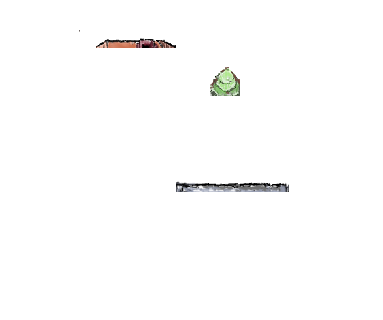
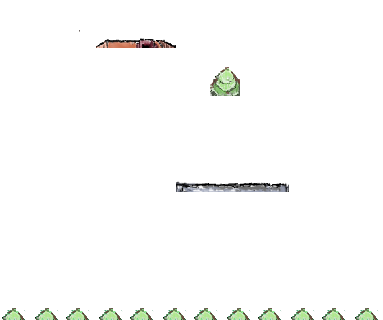
Fixat bakgrunden så att det inte syns några svarta hål som inte borde finnas(tillfälligt finns det två olika sorters granar).

diff --git a/Projekt/src/render/World.java b/Projekt/src/render/World.java
@@ -2,6 +2,7 @@ package render;
 
 import java.awt.Color;
 import java.awt.Graphics;
+import java.awt.Image;
 import java.awt.image.BufferedImage;
 import java.io.File;
 import javax.swing.ImageIcon;
@@ -35,6 +36,7 @@ public class World implements Cloneable {
 	BufferedImage grafik;
 	BufferedImage alpha;
 	BufferedImage items;
+	private int id=0;
 	/**
 	 * kostruktorn försöker öppna forldern med alla biler och bestämma dess width och height
 	 */
@@ -100,6 +102,7 @@ public class World implements Cloneable {
 			if(this.isPoortal(curx,cury)){ // RGB = Värld, x,y
 				this.path=getClass().getResource(path+"/world"+c.getRed()).getPath();
 				ImageIcon t= new ImageIcon(this.path+"/alpha.png");
+				this.id=this.pos[2];
 				if(t.getIconWidth()>this.pos[0]+radius&&t.getIconHeight()>this.pos[1]+radius)
 					this.loadWorld();
 				this.pos[0]=-1;
@@ -117,6 +120,7 @@ public class World implements Cloneable {
 			if(this.isPoortal(curx,cury)){ // RGB = Värld, x,y
 				this.path=path;
 				ImageIcon t= new ImageIcon(this.path+"/alpha.png");
+				this.id=this.pos[2];
 				if(t.getIconWidth()>=this.pos[0]&&t.getIconHeight()>=this.pos[1])
 					this.loadWorld();
 				this.pos[0]=-1;
@@ -177,6 +181,24 @@ public class World implements Cloneable {
 				(pixelCol >>> 24) & 0xff
 		);
 	}
+	
+	ImageIcon bg=new ImageIcon(getClass().getResource("/res/treerothen.png").getPath());
+	BufferedImage bm=null;
+	void drawBackground(Graphics g,int offx,int offy,int lx,int ly){
+		if(bm==null||(this.id==1)){
+			if(this.id==1)
+				bg= new ImageIcon(getClass().getResource("/res/tree.png").getPath());
+			bm=new BufferedImage(lx,ly,BufferedImage.TYPE_INT_ARGB);
+			int he=bg.getIconHeight();
+			int wi=bg.getIconWidth();
+			for(int i=0;i*he<ly*2;i++)
+				for(int j=0;j*wi<lx;j++)
+					bm.getGraphics().drawImage(bg.getImage(), j*wi-35, i*he/2-35, null);
+			this.id=0;
+		}
+		g.drawImage(bm, offx-32, offy-32, null);
+	}
+	
 	void paint(Graphics g,int x2,int y2,int width,int height) throws ArrayIndexOutOfBoundsException {
 		if(this.getRGBA(x2/radius, y2/radius).equals(new Color(0xfbc815))){
 			Graphics ag =this.alpha.createGraphics();
@@ -186,6 +208,7 @@ public class World implements Cloneable {
 
 			//BufferedImage im=(BufferedImage)this.alpha.getImage().getSource();//.getGraphics().fillRect(x2/radius, y2/radius, 1, 1);
 		}
+		drawBackground(g, -x2+9, -y2-9,width*2,height*2);
 		//g.drawImage(this.alpha, -x2+width/2, -y2 + height/2,this.alpha.getWidth()*radius,this.alpha.getHeight()*radius, null);
 		g.drawImage(this.layout.getImage(), -x2+width/2, -y2 + height/2, null);
 		g.drawImage(this.items, -x2+width/2, -y2 + height/2, null);

diff --git a/Projekt/src/render/character.java b/Projekt/src/render/character.java
@@ -2,8 +2,6 @@ package render;
 
 import java.awt.image.BufferedImage;
 import java.util.ArrayList;
-import java.util.logging.Level;
-import java.util.logging.Logger;
 import javax.swing.ImageIcon;
 /**
  * denna funktionen konrollerar karaktärens rörelser och data ex Grafik på hur karaktären skall se ut i olika vinlklar osv
@@ -240,6 +238,18 @@ public class character {
 		this.x2=x*this.radius;
 		this.y=y;
 		this.y2=y*this.radius;
+	}
+	public boolean onPosition(int x,int y){
+		return (this.x==x&&this.y==y);
+	}
+	public boolean teleport(int xstart,int ystart,int xstop,int ystop){
+		if(this.x==xstart&&this.y==ystart){
+			this.x=xstop;
+			this.y=ystop;
+			this.staticMove(0);
+			return true;
+		}
+		return false;
 	}
 	/**
 	 * @deprecated

diff --git a/Projekt/src/render/Projekt.java b/Projekt/src/render/Projekt.java
@@ -213,9 +213,11 @@ public class Projekt extends Render {
 				}
 				int x=this.world.pos[0];
 				int y=this.world.pos[1];
-				if (this.focus.getWorldFromPath(pa) == -1) 
+				if (this.focus.getWorldFromPath(pa) == -1) {
 					this.world.setWorld(pa,this.focus.x,this.focus.y);
+				}
 				else {
+					
 					this.world.pos[0]=-1;
 					this.world.pos[1]=-1;
 					this.world.pos[2]=-1;
